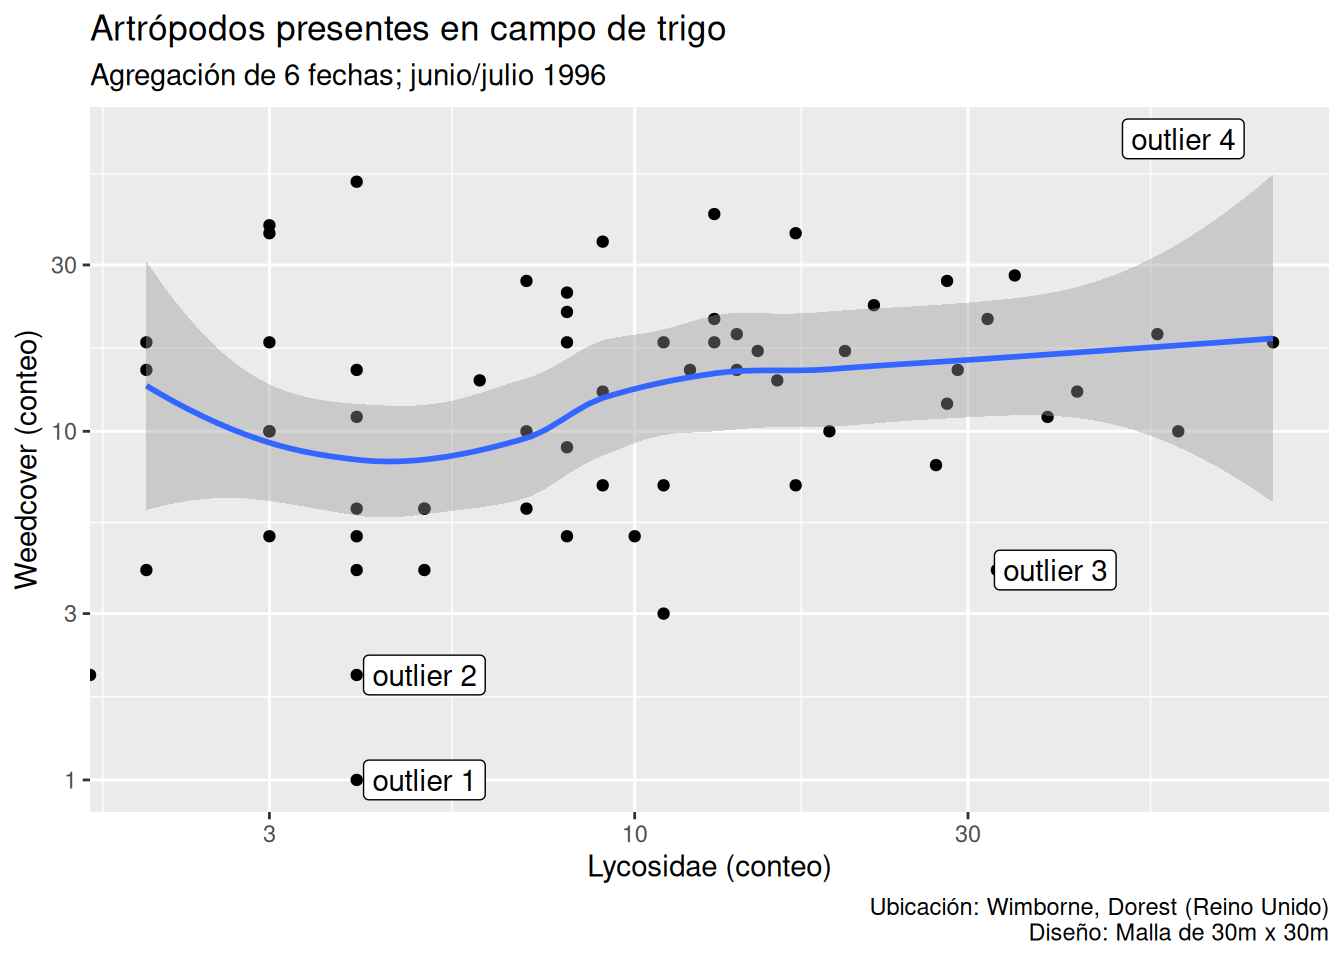
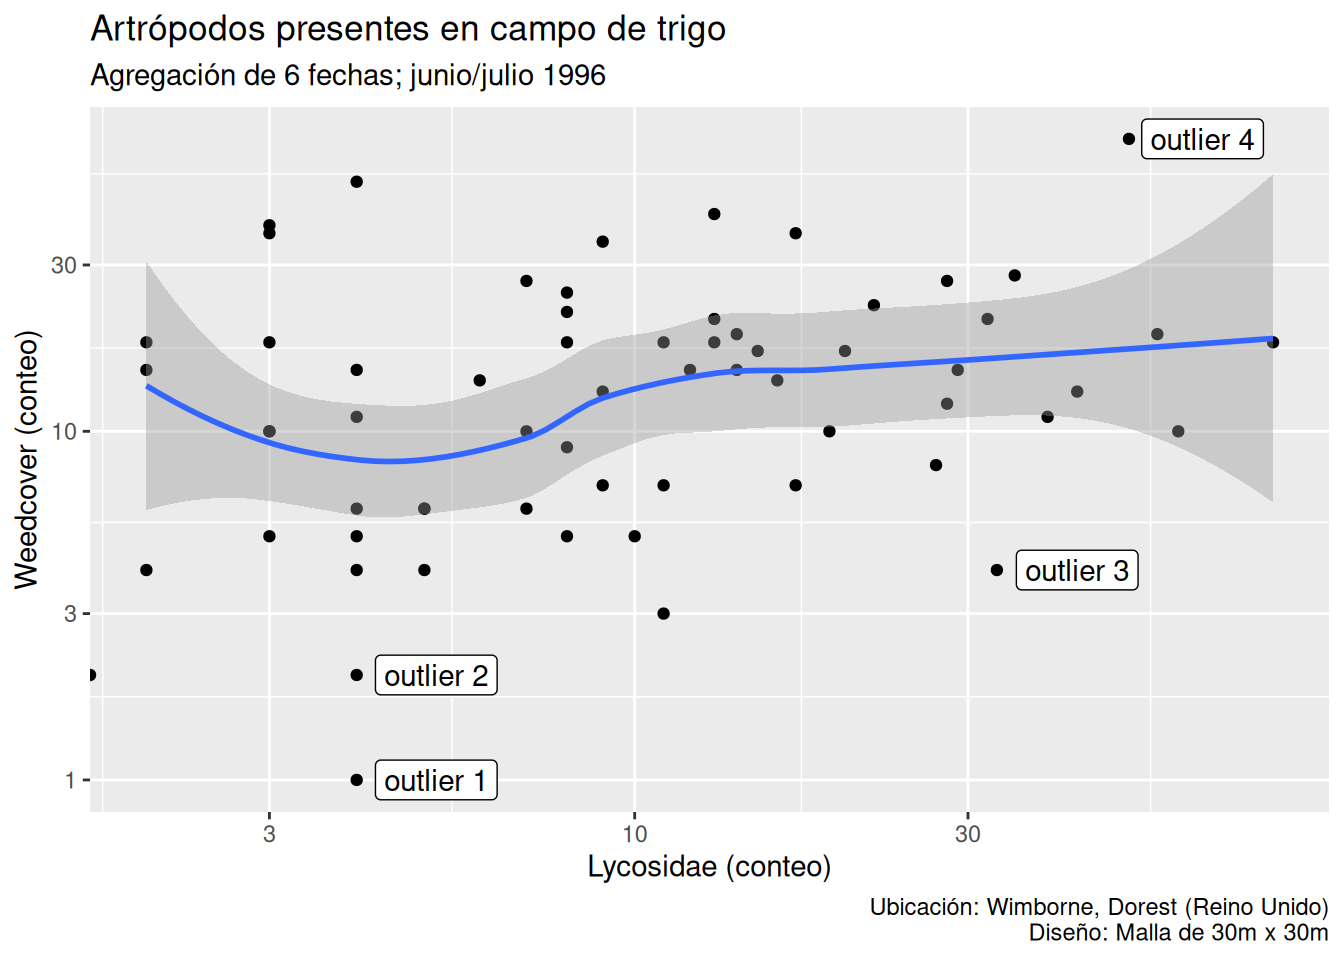
Built site for gh-pages

diff --git a/05-ggplot2.html b/05-ggplot2.html
@@ -593,7 +593,7 @@ Figura&nbsp;5.6: Añadimos títulos y personalizamos etiquetas de los ejes.
 <p>La <a href="#fig-ggplot-first-annotations" class="quarto-xref">Figura&nbsp;<span>5.7</span></a> muestra un ejemplo de cuatro anotaciones añadidas manualmente a nuestro gráfico para marcar la ubicación de otros tantos casos atípicos sobre el diagrama de dispersión.</p>
 <div class="cell">
 <div class="sourceCode cell-code" id="cb15"><pre class="sourceCode r code-with-copy"><code class="sourceCode r"><span id="cb15-1"><a href="#cb15-1" aria-hidden="true" tabindex="-1"></a>label <span class="ot">&lt;-</span> <span class="fu">data.frame</span>(</span>
-<span id="cb15-2"><a href="#cb15-2" aria-hidden="true" tabindex="-1"></a>  <span class="at">lycosidae =</span> <span class="fu">c</span>(<span class="dv">5</span>, <span class="dv">5</span>, <span class="dv">40</span>, <span class="dv">61</span>), </span>
+<span id="cb15-2"><a href="#cb15-2" aria-hidden="true" tabindex="-1"></a>  <span class="at">lycosidae =</span> <span class="fu">c</span>(<span class="fl">5.2</span>, <span class="fl">5.2</span>, <span class="dv">43</span>, <span class="dv">65</span>), </span>
 <span id="cb15-3"><a href="#cb15-3" aria-hidden="true" tabindex="-1"></a>  <span class="at">weedcover =</span> <span class="fu">c</span>(<span class="dv">1</span>, <span class="dv">2</span>, <span class="dv">4</span>,<span class="dv">69</span>), </span>
 <span id="cb15-4"><a href="#cb15-4" aria-hidden="true" tabindex="-1"></a>  <span class="at">label =</span> <span class="fu">c</span>(<span class="st">"outlier 1"</span>, <span class="st">"outlier 2"</span>, <span class="st">"outlier 3"</span>, <span class="st">"outlier 4"</span>)</span>
 <span id="cb15-5"><a href="#cb15-5" aria-hidden="true" tabindex="-1"></a>)</span>
@@ -729,7 +729,7 @@ Figura&nbsp;5.9: Ejemplo de uso del tema inspirado en los gráficos de The Econo
 <div id="fig-ggspectra-example" class="quarto-float quarto-figure quarto-figure-center anchored">
 <figure class="quarto-float quarto-subfloat-fig figure">
 <div aria-describedby="fig-ggspectra-example-caption-0ceaefa1-69ba-4598-a22c-09a6ac19f8ca">
-<img src="img/gg.png" class="img-fluid figure-img" data-ref-parent="fig-ggplot-extensions">
+<img src="img/ggspectra-example.png" class="img-fluid figure-img" data-ref-parent="fig-ggplot-extensions">
 </div>
 <figcaption class="quarto-float-caption-bottom quarto-subfloat-caption quarto-subfloat-fig" id="fig-ggspectra-example-caption-0ceaefa1-69ba-4598-a22c-09a6ac19f8ca">
 (b) <code>ggspectra</code>
